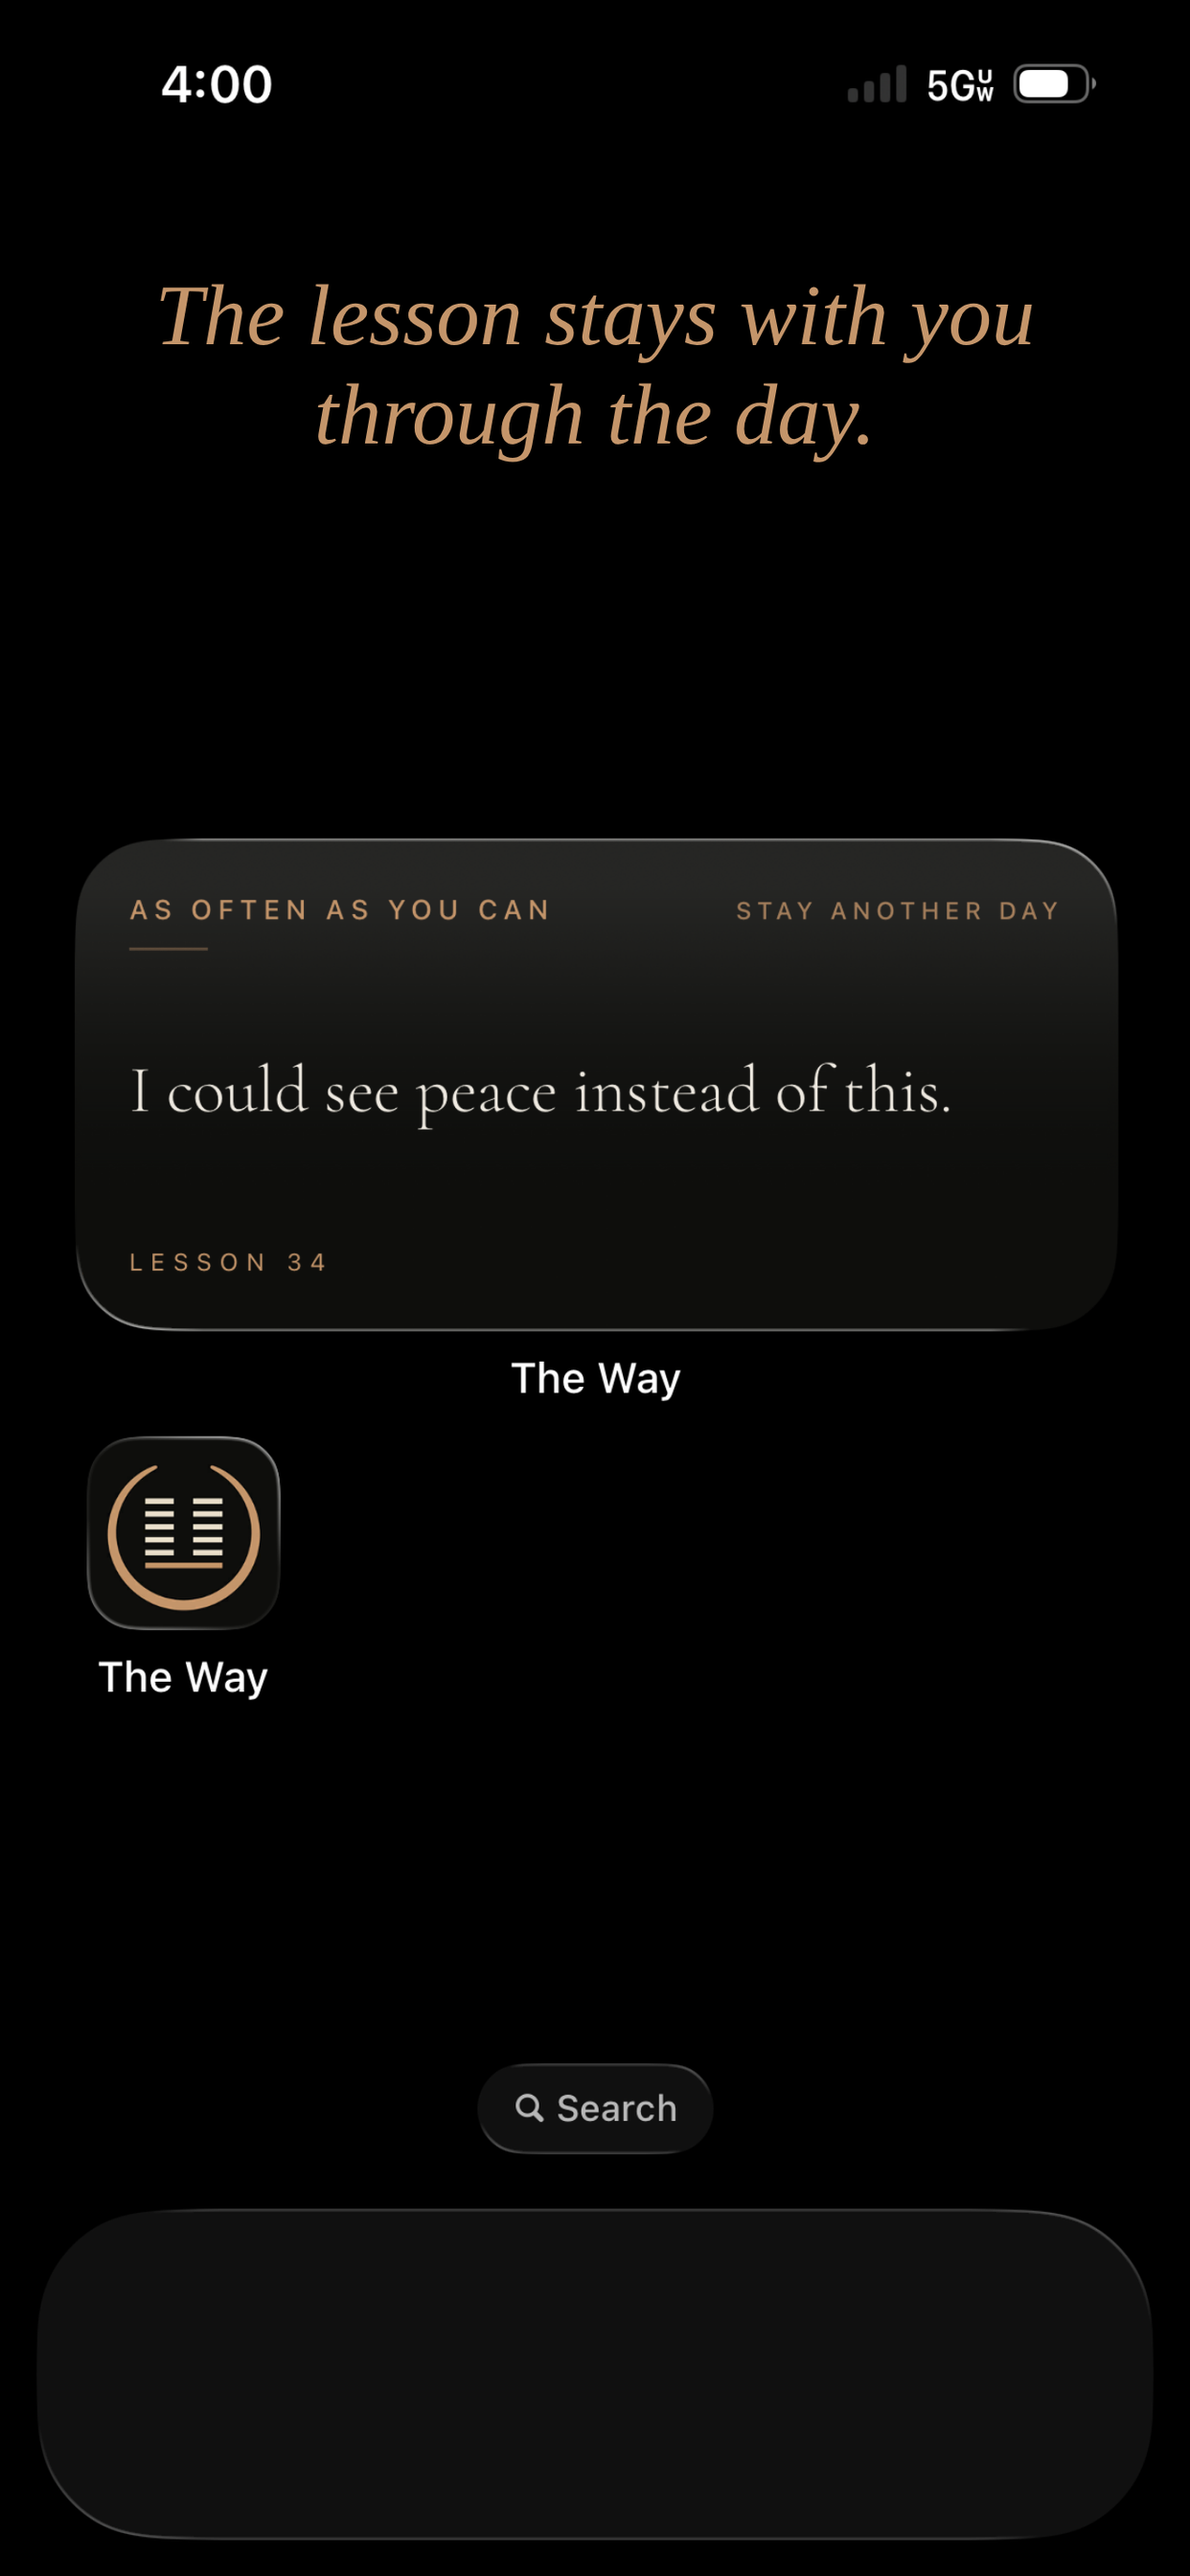
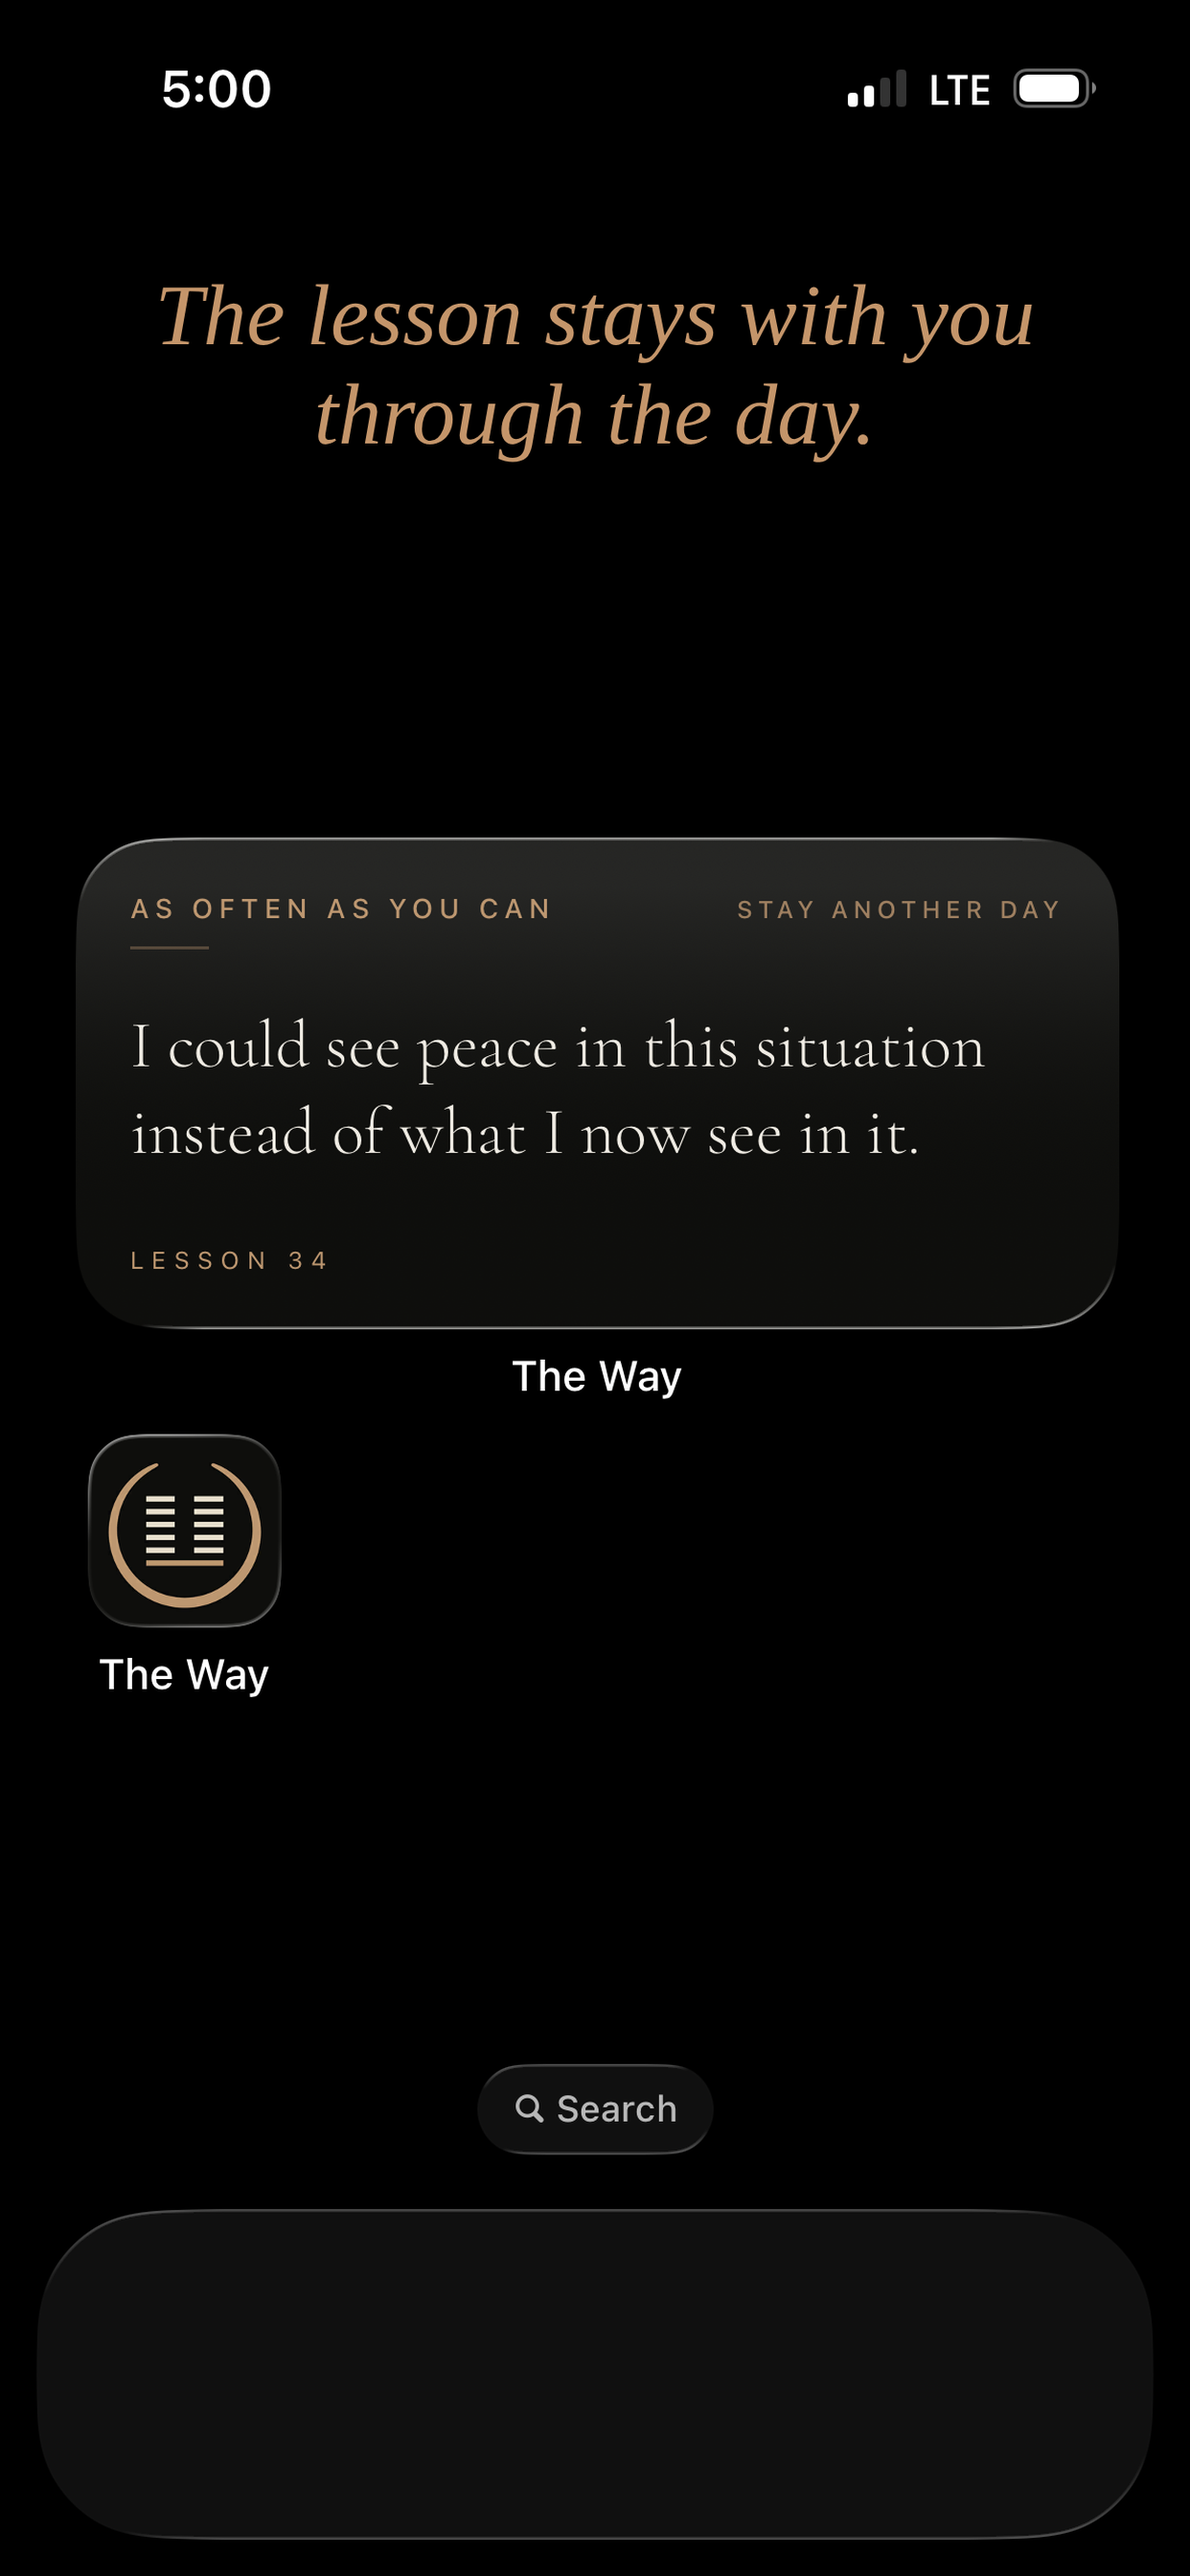
1.4 (10): Lock Screen widget shows long ideas whole; real widget screenshot

diff --git a/app/ios-widget/TheWayWidget.swift b/app/ios-widget/TheWayWidget.swift
@@ -381,6 +381,8 @@ struct TheWayWidgetView: View {
     @Environment(\.widgetFamily) private var family
     var entry: LessonEntry
 
+    private var isLong: Bool { entry.moment.text.count > 80 }
+
     var body: some View {
         switch family {
         case .accessoryInline:
@@ -388,18 +390,24 @@ struct TheWayWidgetView: View {
                 .containerBackground(for: .widget) { Color.clear }
 
         case .accessoryRectangular:
+            // A long idea (Lessons 347–360) needs the whole space:
+            // the label steps aside so the last line, where the idea arrives,
+            // is never cut.
             VStack(alignment: .leading, spacing: 2) {
-                Text(entry.moment.label)
-                    .font(.system(size: 9, weight: .semibold))
-                    .tracking(1.2)
-                    .lineLimit(1)
-                    .minimumScaleFactor(0.7)
-                    .widgetAccentable()
-                    .opacity(0.85)
+                if !isLong {
+                    Text(entry.moment.label)
+                        .font(.system(size: 9, weight: .semibold))
+                        .tracking(1.2)
+                        .lineLimit(1)
+                        .minimumScaleFactor(0.7)
+                        .widgetAccentable()
+                        .opacity(0.85)
+                }
                 Text(entry.moment.text)
-                    .font(.system(size: 13, weight: .regular, design: .serif))
-                    .lineLimit(3)
-                    .minimumScaleFactor(0.7)
+                    .font(.system(size: isLong ? 12 : 13, weight: .regular, design: .serif))
+                    .lineLimit(isLong ? 4 : 3)
+                    .minimumScaleFactor(0.6)
+                    .allowsTightening(true)
             }
             .frame(maxWidth: .infinity, alignment: .leading)
             .containerBackground(for: .widget) { Color.clear }

diff --git a/app/ios/App/TheWayWidget/TheWayWidget.swift b/app/ios/App/TheWayWidget/TheWayWidget.swift
@@ -381,6 +381,8 @@ struct TheWayWidgetView: View {
     @Environment(\.widgetFamily) private var family
     var entry: LessonEntry
 
+    private var isLong: Bool { entry.moment.text.count > 80 }
+
     var body: some View {
         switch family {
         case .accessoryInline:
@@ -388,18 +390,24 @@ struct TheWayWidgetView: View {
                 .containerBackground(for: .widget) { Color.clear }
 
         case .accessoryRectangular:
+            // A long idea (Lessons 347–360) needs the whole space:
+            // the label steps aside so the last line, where the idea arrives,
+            // is never cut.
             VStack(alignment: .leading, spacing: 2) {
-                Text(entry.moment.label)
-                    .font(.system(size: 9, weight: .semibold))
-                    .tracking(1.2)
-                    .lineLimit(1)
-                    .minimumScaleFactor(0.7)
-                    .widgetAccentable()
-                    .opacity(0.85)
+                if !isLong {
+                    Text(entry.moment.label)
+                        .font(.system(size: 9, weight: .semibold))
+                        .tracking(1.2)
+                        .lineLimit(1)
+                        .minimumScaleFactor(0.7)
+                        .widgetAccentable()
+                        .opacity(0.85)
+                }
                 Text(entry.moment.text)
-                    .font(.system(size: 13, weight: .regular, design: .serif))
-                    .lineLimit(3)
-                    .minimumScaleFactor(0.7)
+                    .font(.system(size: isLong ? 12 : 13, weight: .regular, design: .serif))
+                    .lineLimit(isLong ? 4 : 3)
+                    .minimumScaleFactor(0.6)
+                    .allowsTightening(true)
             }
             .frame(maxWidth: .infinity, alignment: .leading)
             .containerBackground(for: .widget) { Color.clear }
